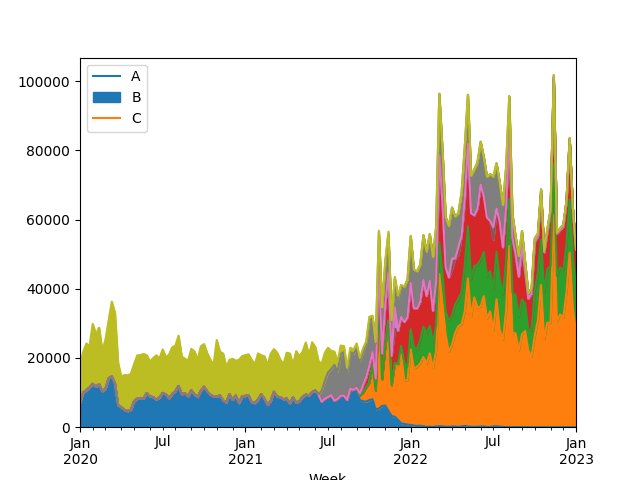
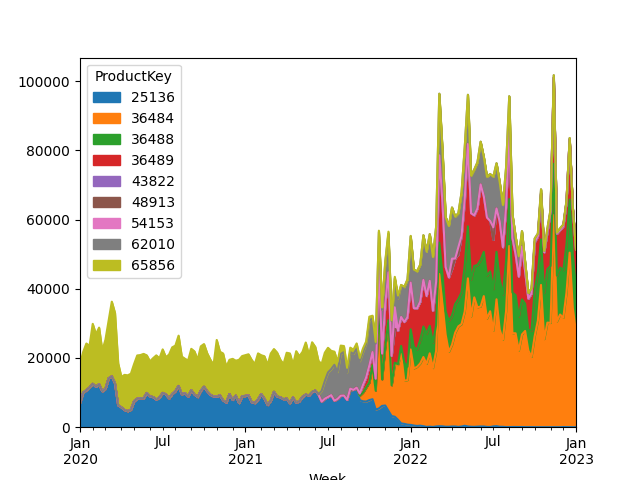
.

Changed region(s): [[0.125, 0.125, 0.2812, 0.5938]]

diff --git a/product_performance.py b/product_performance.py
@@ -15,7 +15,7 @@ al.split_dates_holidays(all_transactions, holidays)
 
 if not os.path.exists('performance_stats'):
     os.mkdir('performance_stats')
-"""
+
 al.sum_values_groupby_to_csv(all_transactions, 'Region_Lvl1', 'ActualSales', 'performance_stats/region_lvl1.csv')
 
 al.sum_values_groupby_to_csv(all_transactions, 'Region_Lvl2', 'ActualSales', 'performance_stats/region_lvl2.csv')
@@ -79,10 +79,10 @@ plt.savefig('plots/ab_sales.png')
 
 al.sum_values_groupby_c(all_transactions[all_transactions['ProductCategory_Lvl2'] == 'AC'], ['Week', 'ProductKey'], 'ActualSales').unstack().plot(kind='area', legend=False)
 plt.savefig('plots/ac_sales.png')
-"""
-al.sum_values_groupby_c(all_transactions[all_transactions['ProductCategory_Lvl2'] == 'AD'], ['Week', 'ProductKey'], 'ActualSales').unstack().plot(kind='area', legend=False)
+
+al.sum_values_groupby_c(all_transactions[all_transactions['ProductCategory_Lvl2'] == 'AD'], ['Week', 'ProductKey'], 'ActualSales').unstack().plot(kind='area')
 plt.savefig('plots/ad_sales.png')
-"""
+
 al.sum_values_groupby_c(all_transactions[all_transactions['ProductCategory_Lvl2'] == 'AE'], ['Week', 'ProductKey'], 'ActualSales').unstack().plot(kind='area', legend=False)
 plt.savefig('plots/ae_sales.png')
 
@@ -113,4 +113,4 @@ del monthly_increase
 plt.savefig('plots/sales_increase_cpi.png')
 
 print(al.mean_values_groupby(al.sum_values_groupby_c(all_transactions, ['TransactionDate', 'IsHoliday'], 'ActualSales').reset_index(), 'IsHoliday', 'ActualSales'))
-"""
+
